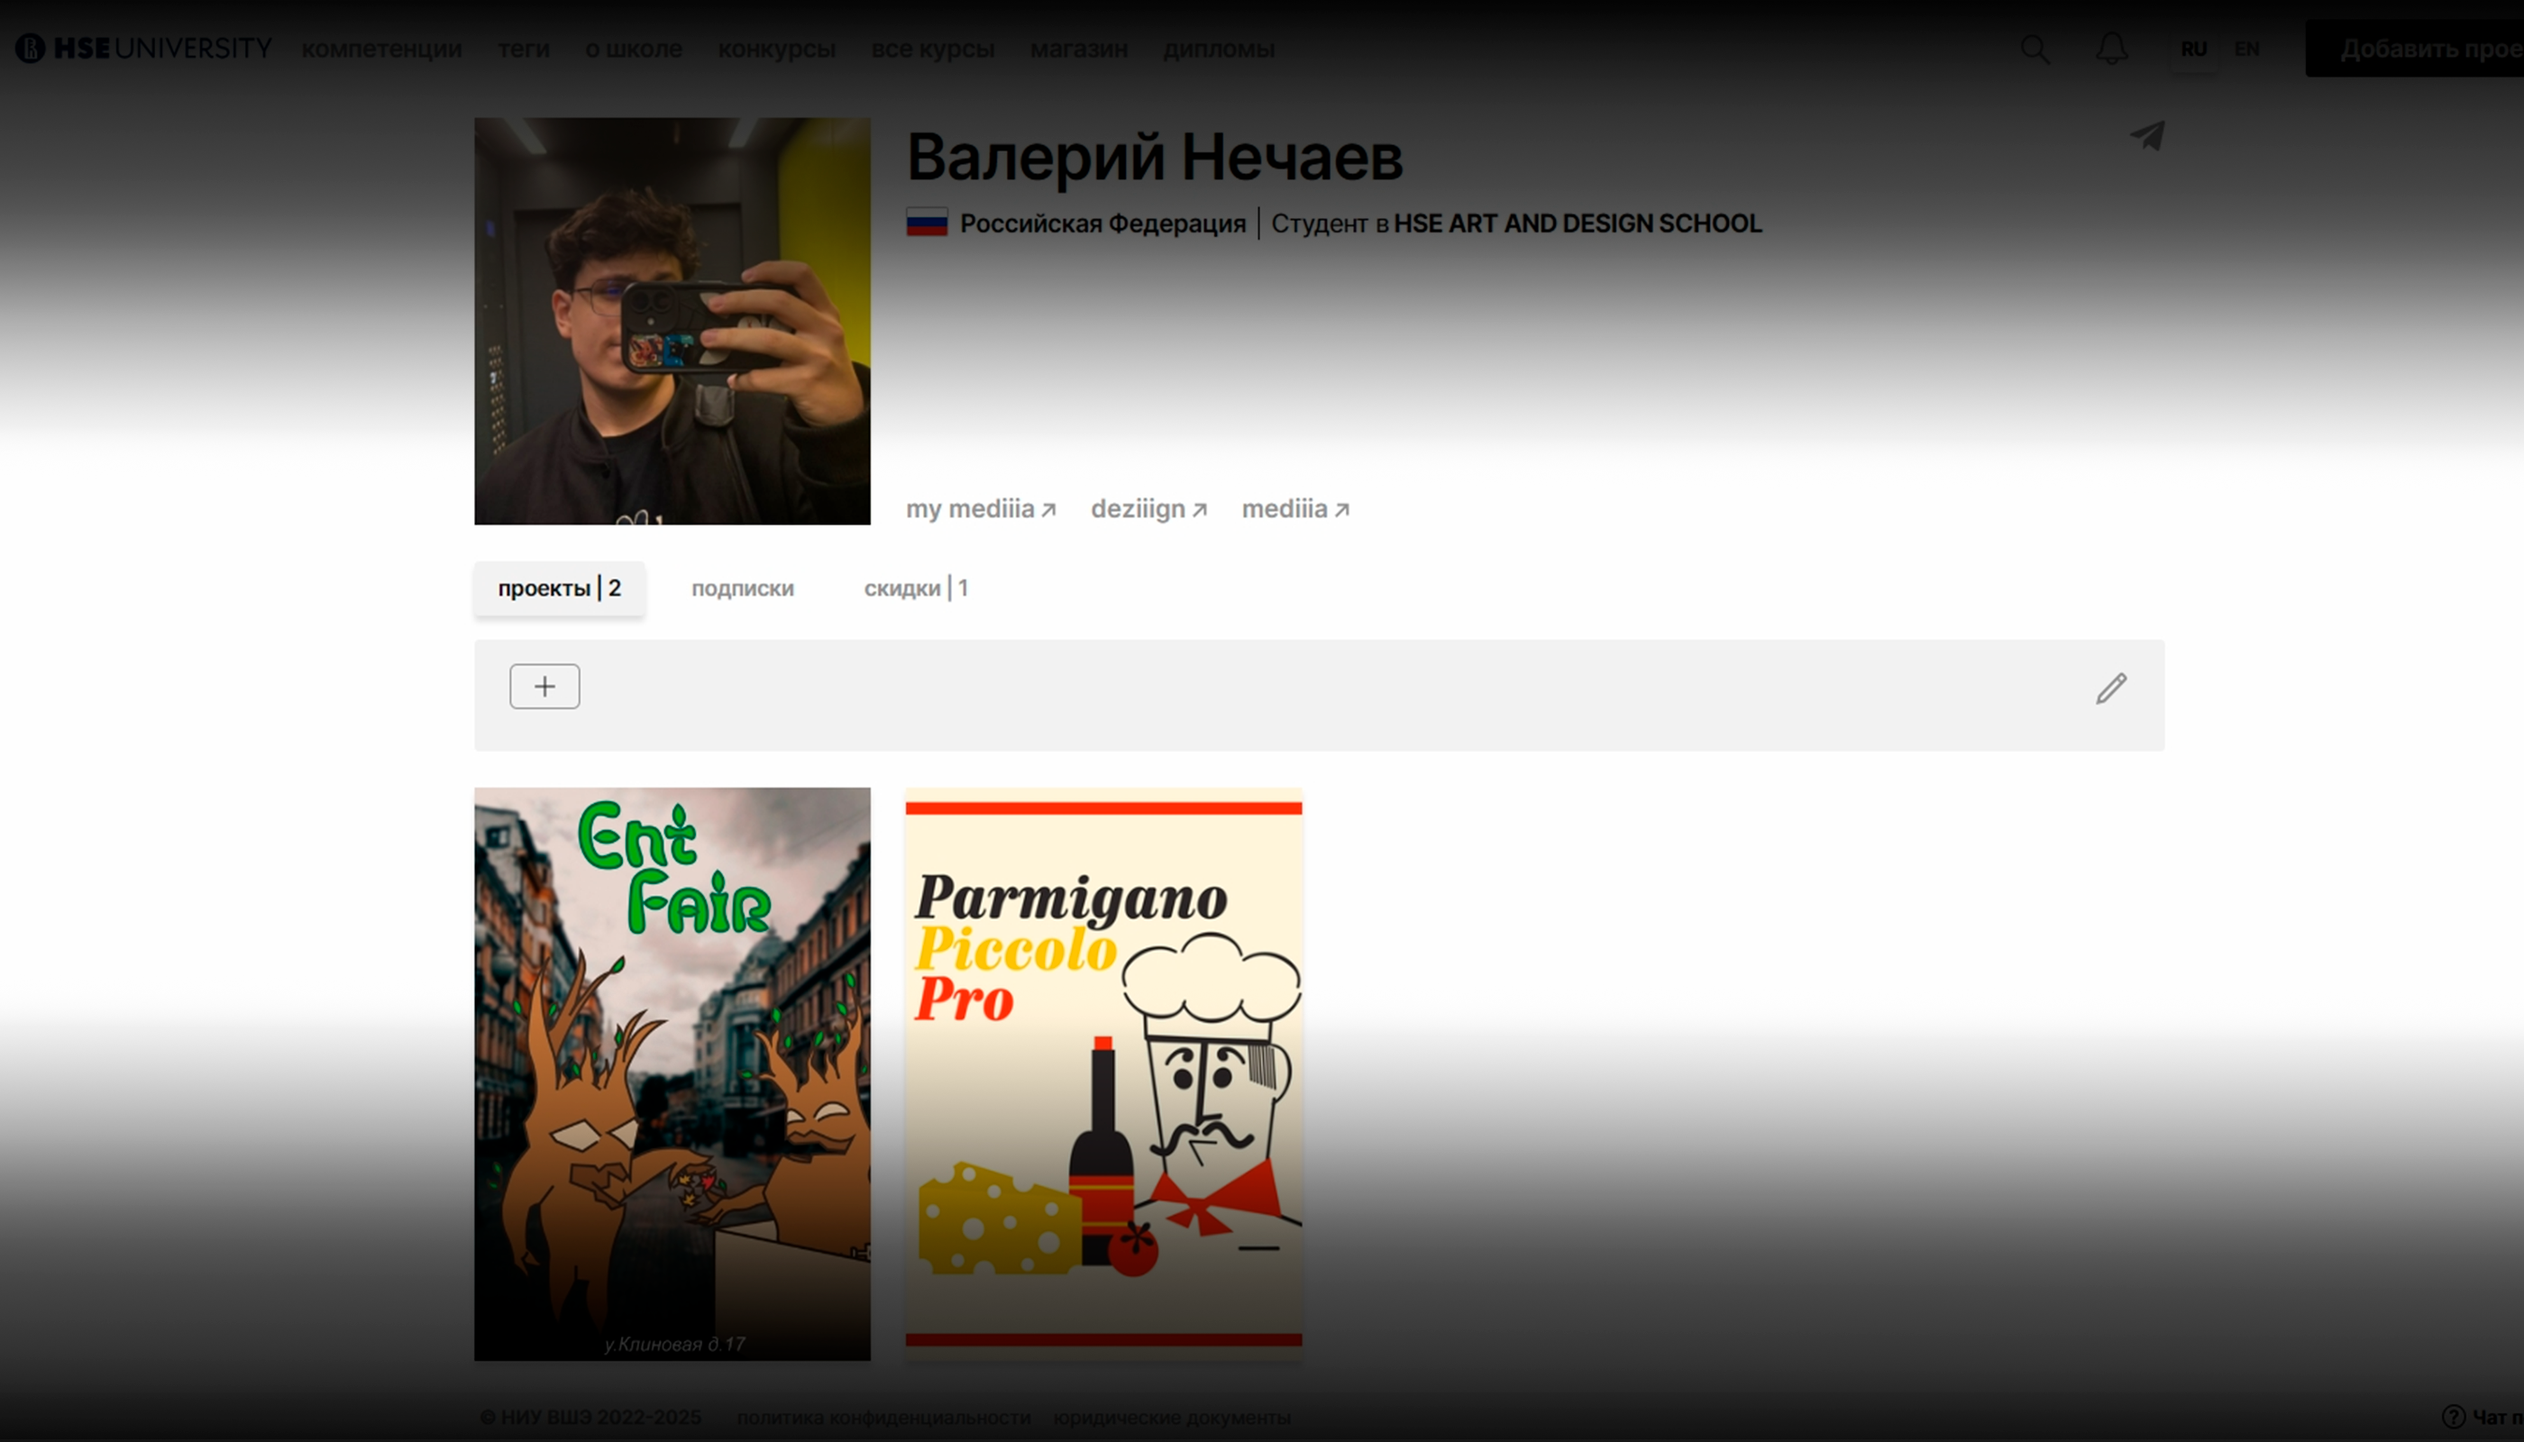
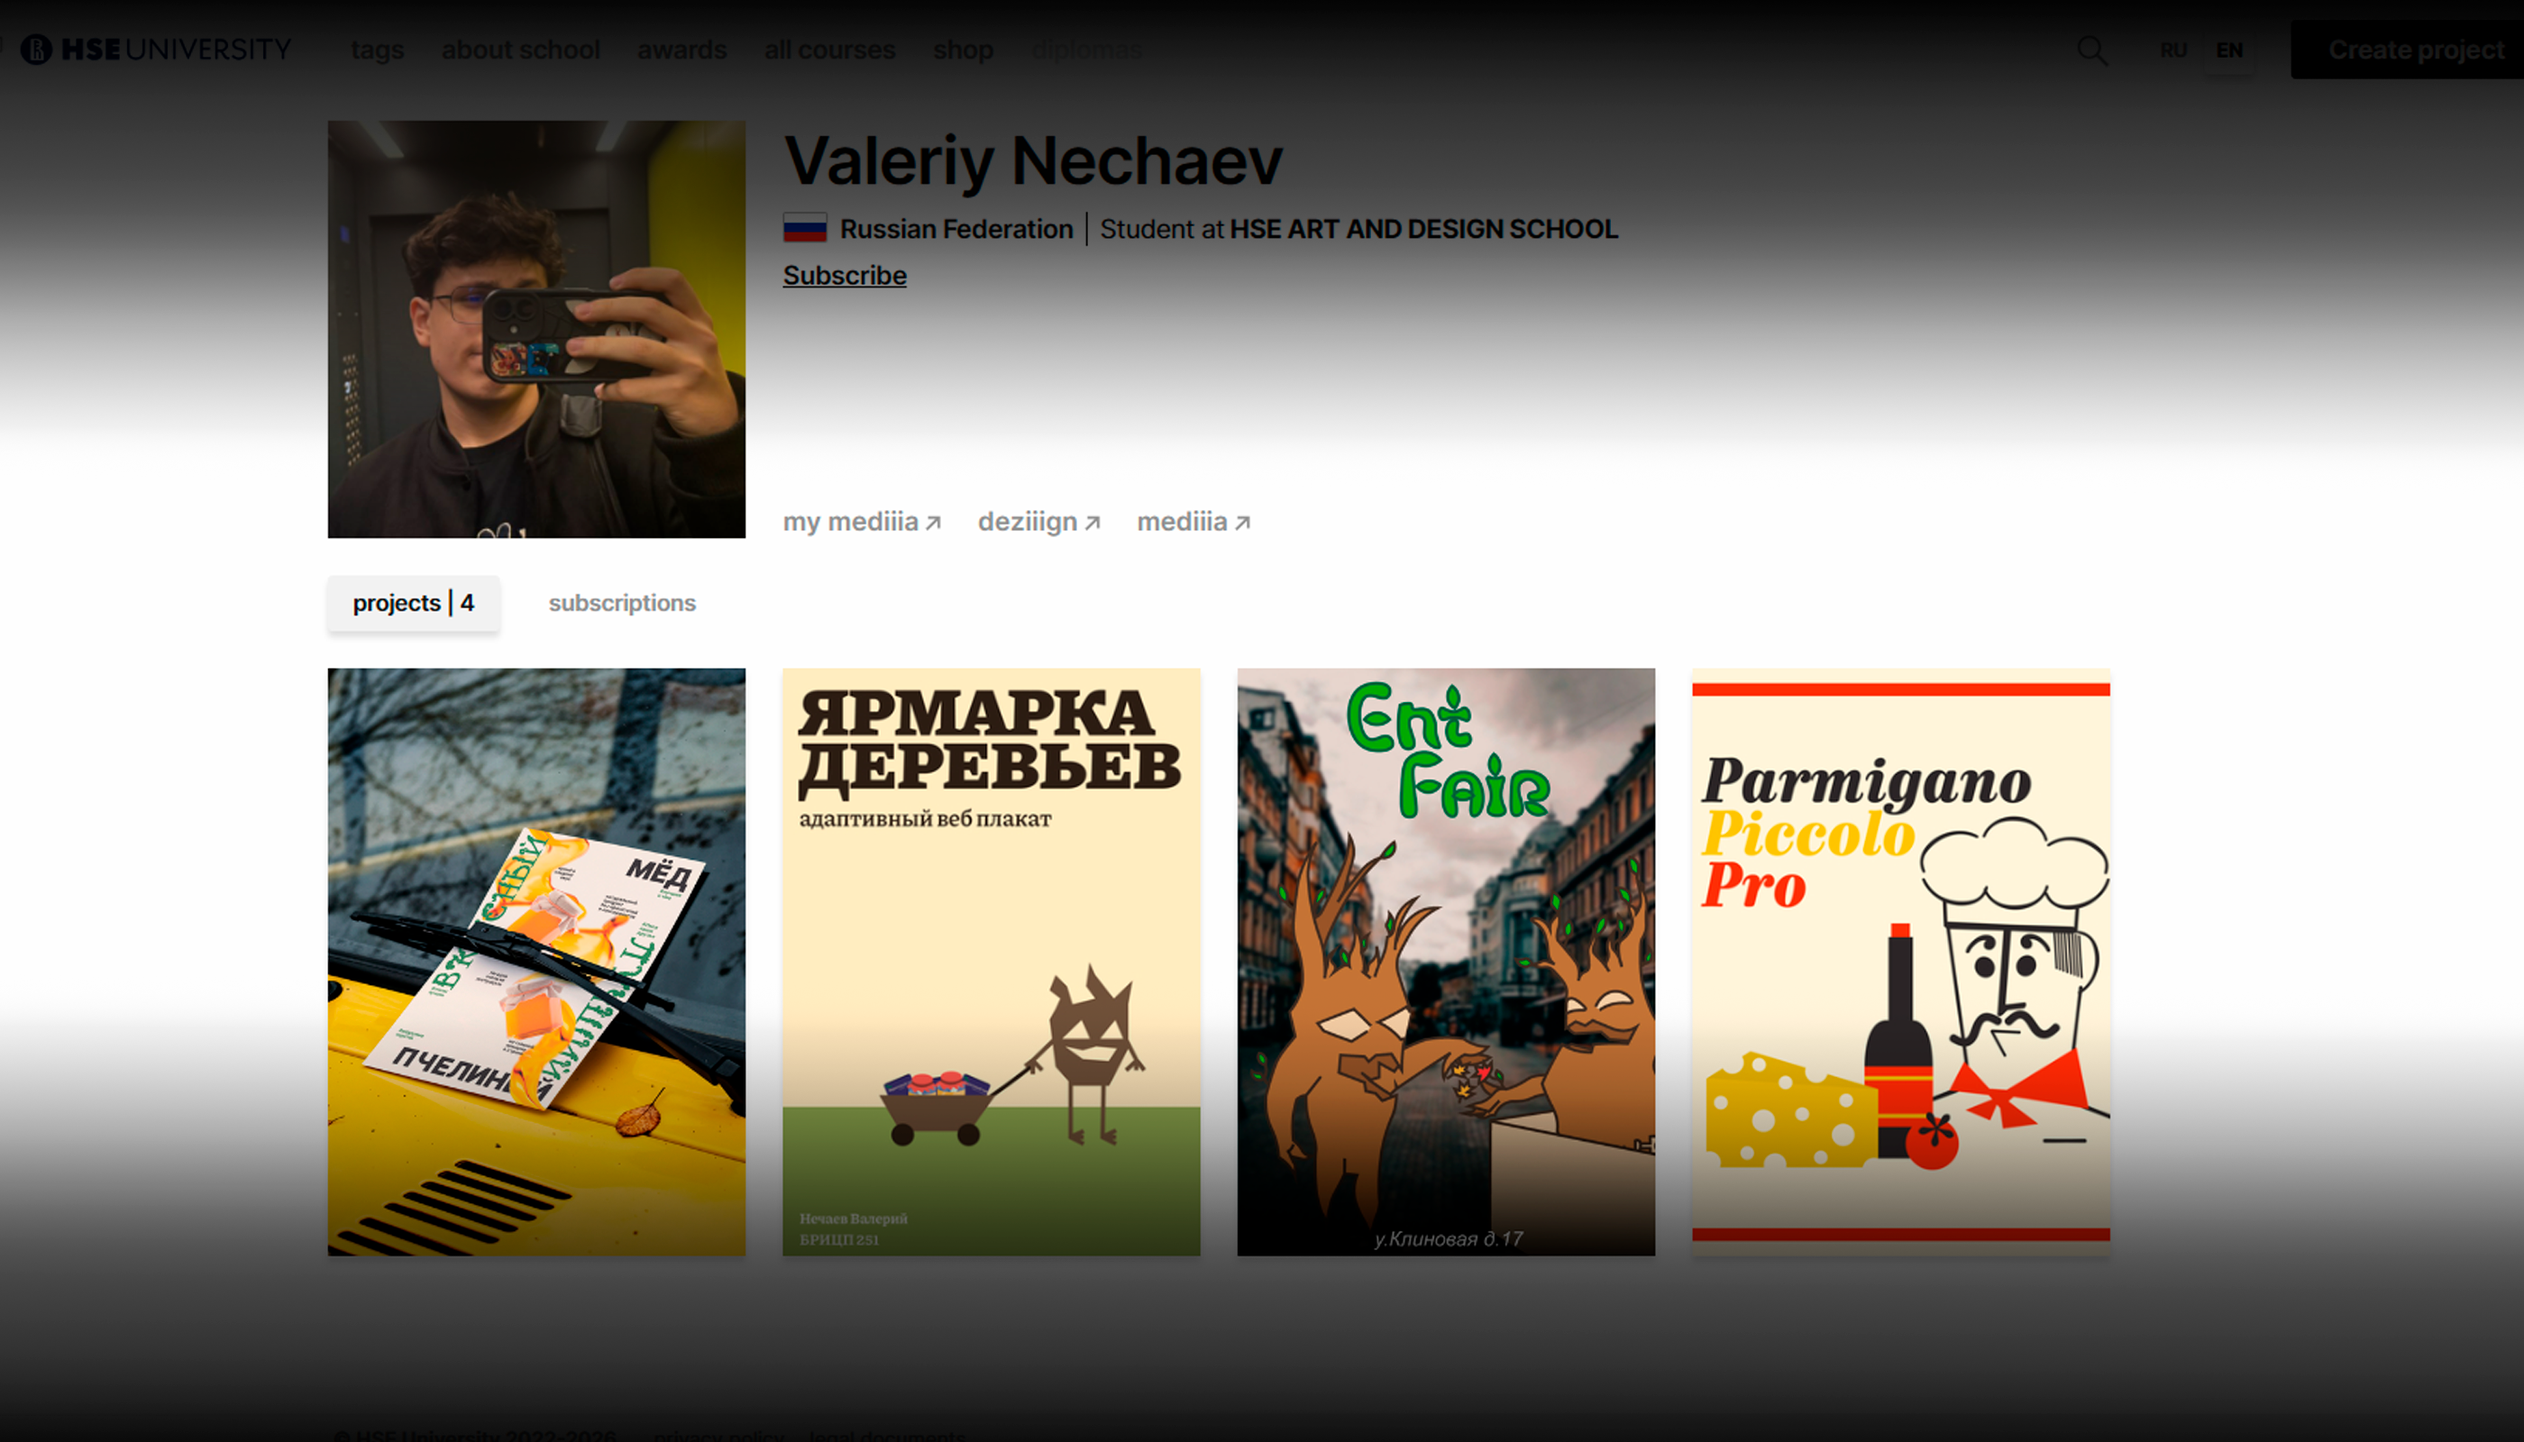
Add new site

diff --git a/index.html b/index.html
@@ -77,6 +77,14 @@
           <p class="black">Parmigiano Piccolo</p>
           <h5 class="black">Лонгрид по шрифту Parmigiano Piccolo</h5>
         </a>
+        <a
+          href="https://vaavn.github.io/EntFair-AdaptivePposter/"
+          class="tab-element"
+          id="entPosterAd"
+        >
+          <p class="black">Ent Fair</p>
+          <h5 class="black">Адаптивный веб-плакат про ярмарку деревьев</h5>
+        </a>
       </div>
     </section>
     <section id="visual" class="projects">

diff --git a/css/elements-ids.css b/css/elements-ids.css
@@ -19,3 +19,6 @@
 #behance {
   background-image: url("../img/behance.png");
 }
+#entPosterAd {
+  background-image: url("../img/EntFairPoster.png");
+}
